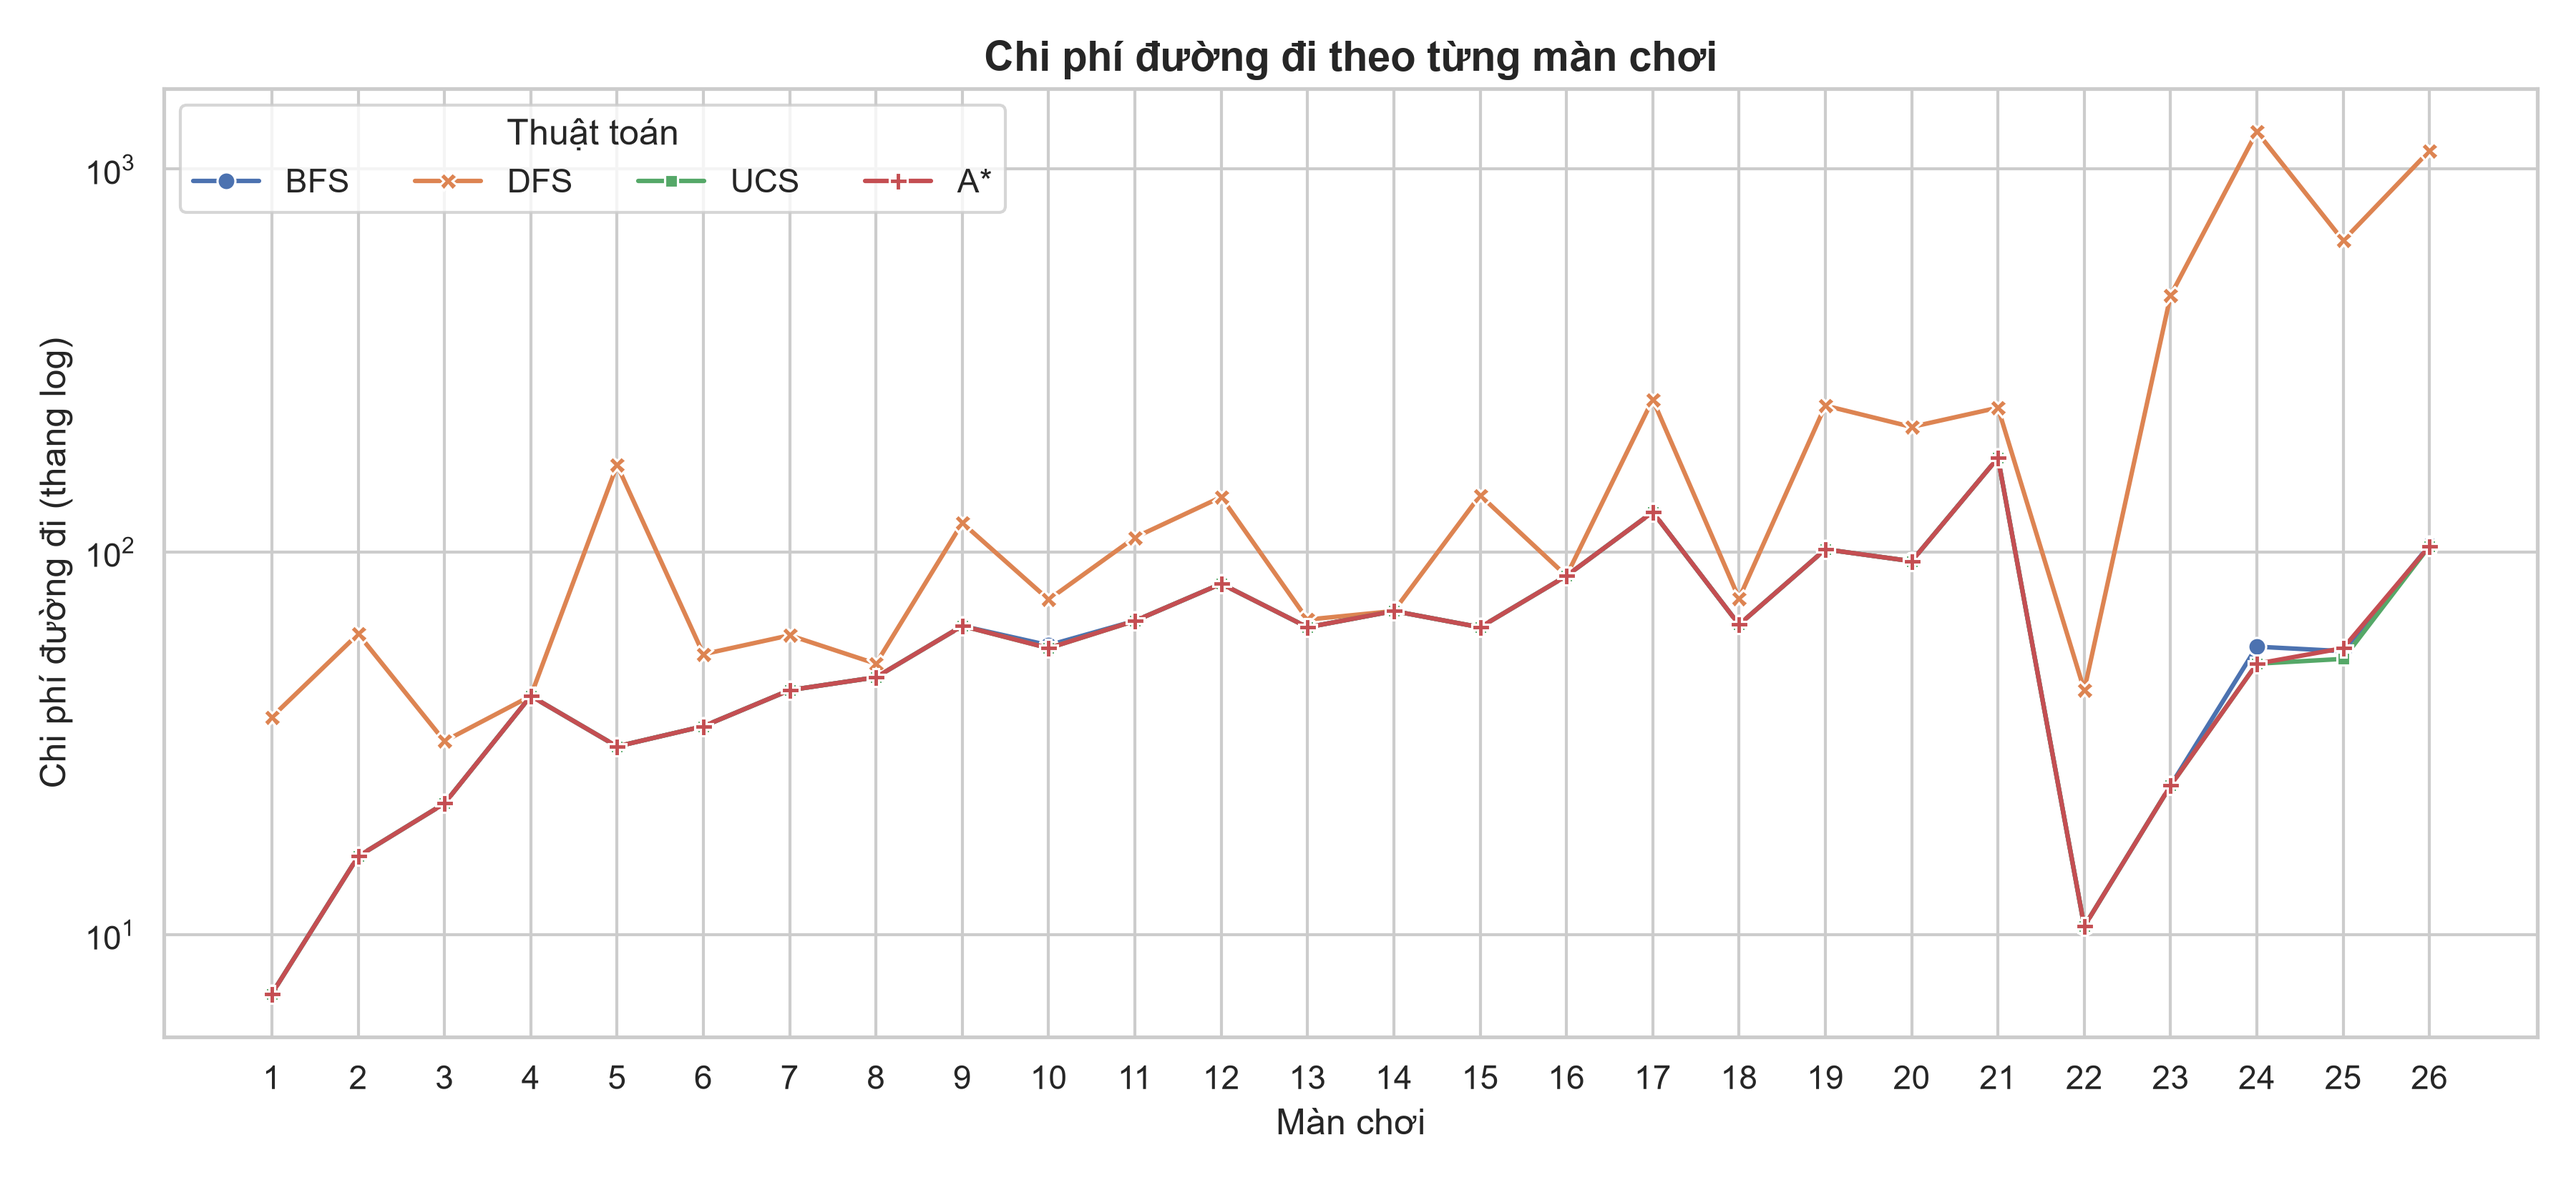
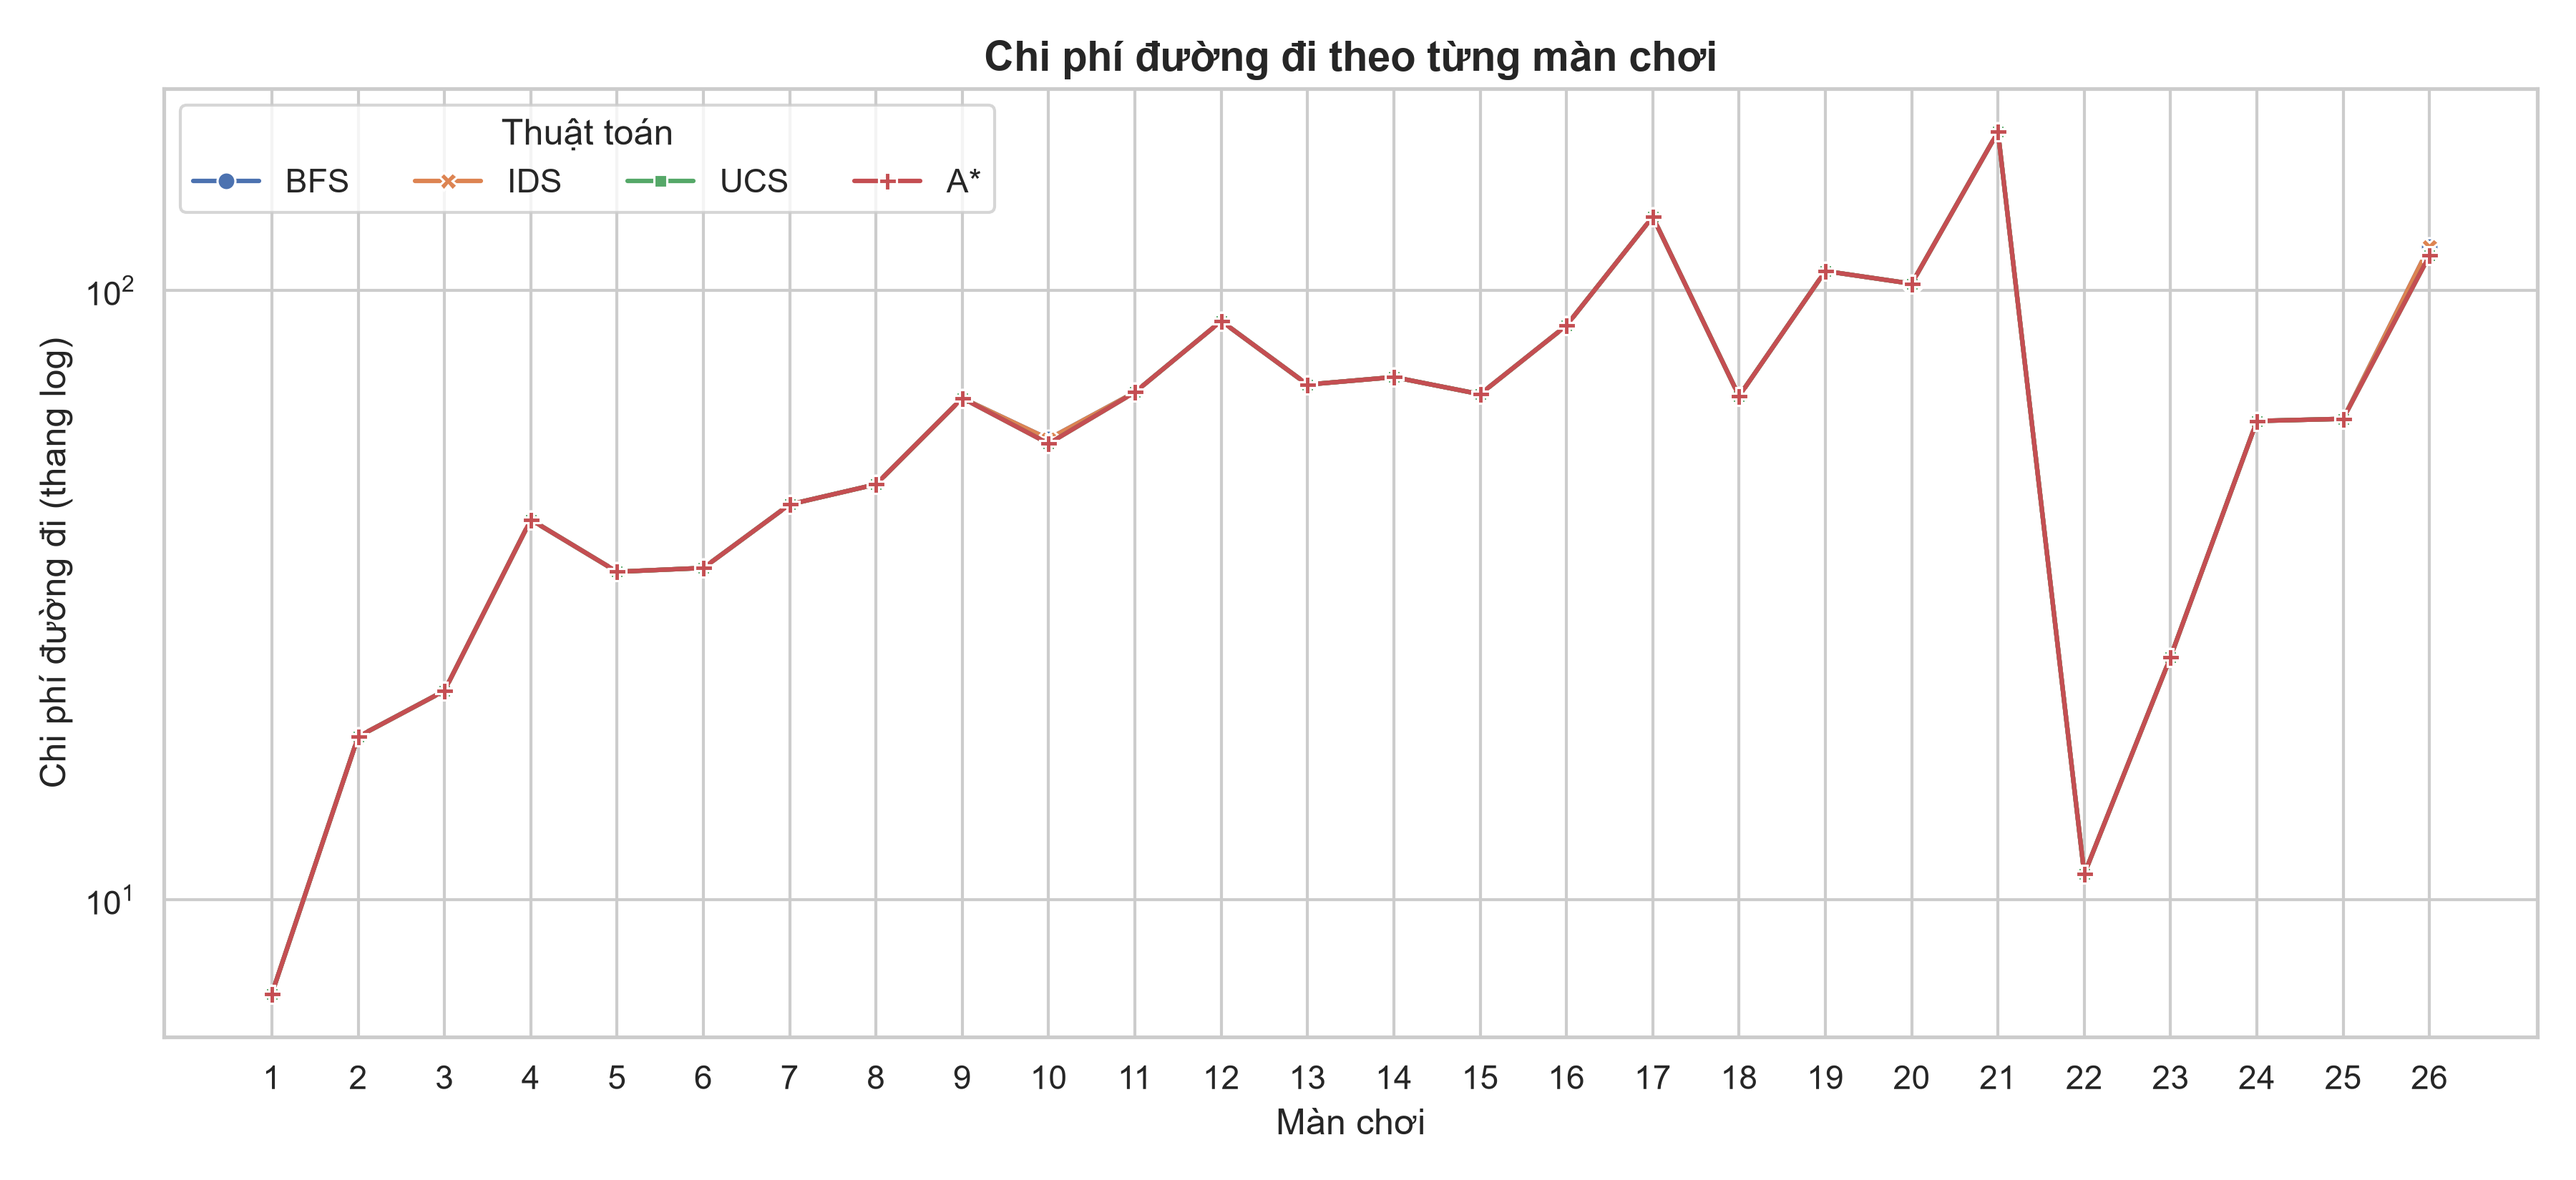
benchmark: IDS, timeout; plot: so sanh tren man co du so lieu

diff --git a/Source/experiments/plot_results.py b/Source/experiments/plot_results.py
@@ -5,9 +5,13 @@ import numpy as np
 import pandas as pd
 import seaborn as sns
  
-CSV_FILE = "results.csv"
-OUTPUT_DIR = "charts"
-ALGORITHM_ORDER = ["BFS", "DFS", "UCS", "A*"]
+BASE = os.path.dirname(os.path.abspath(__file__))
+CSV_FILE = os.path.join(BASE, "results.csv")
+OUTPUT_DIR = os.path.join(BASE, "charts")
+ 
+# Thứ tự hiển thị; thuật toán nào không có trong CSV sẽ tự bị bỏ qua.
+# (DFS giữ lại để đọc được file CSV cũ.)
+ALGORITHM_ORDER = ["BFS", "IDS", "DFS", "UCS", "A*"]
 METRICS = [
     ("Time (s)", "Thời gian tìm kiếm (giây)", "time"),
     ("Memory (KB)", "Bộ nhớ đỉnh (KB)", "memory"),
@@ -19,12 +23,36 @@ METRICS = [
  
 def load_data(path):
     df = pd.read_csv(path)
+    # Các ô "Error" / "Timeout" / rỗng sẽ thành NaN (không có số liệu).
     for column, _, _ in METRICS:
         df[column] = pd.to_numeric(df[column], errors="coerce")
-    df["Level"] = df["Level"].astype(str).str.replace(".json", "", regex=False)
+    df["Level"] = pd.to_numeric(
+        df["Level"].astype(str).str.replace(".json", "", regex=False), errors="coerce"
+    ).astype("Int64")
+    df = df.dropna(subset=["Level"])
+    df["Level"] = df["Level"].astype(int)
     df.loc[df["Steps"] < 0, "Steps"] = np.nan
     df.loc[df["Cost"] < 0, "Cost"] = np.nan
-    return df
+    return df.sort_values(["Level", "Algorithm"]).reset_index(drop=True)
+ 
+ 
+def algorithm_order(df):
+    present = set(df["Algorithm"])
+    return [a for a in ALGORITHM_ORDER if a in present]
+ 
+ 
+def report_missing(df):
+    """In ra các màn không có số liệu (lỗi, timeout, không giải được) của từng thuật toán."""
+    print("[INFO] Số liệu thiếu (NaN) theo thuật toán:")
+    any_missing = False
+    for alg in algorithm_order(df):
+        sub = df[df["Algorithm"] == alg]
+        levels = sorted(sub.loc[sub["Cost"].isna(), "Level"].tolist())
+        if levels:
+            any_missing = True
+            print(f"  - {alg}: thiếu {len(levels)} màn: {levels}")
+    if not any_missing:
+        print("  (không thiếu màn nào)")
  
  
 def geometric_mean(values):
@@ -33,37 +61,42 @@ def geometric_mean(values):
     return np.exp(np.log(values).mean()) if len(values) else np.nan
  
  
-def plot_per_level(df, column, title, name):
-    levels = list(dict.fromkeys(df["Level"]))
+def plot_per_level(df, column, title, name, order):
+    levels = sorted(df["Level"].unique())
+    data = df.copy()
+    data.loc[data[column] <= 0, column] = np.nan   # thang log không vẽ được giá trị <= 0
     fig, ax = plt.subplots(figsize=(max(12, len(levels) * 0.45), 5.5))
-    sns.lineplot(data=df, x="Level", y=column, hue="Algorithm", style="Algorithm",
-                 hue_order=ALGORITHM_ORDER, style_order=ALGORITHM_ORDER,
-                 markers=True, dashes=False, ax=ax, sort=False)
+    sns.lineplot(data=data, x="Level", y=column, hue="Algorithm", style="Algorithm",
+                 hue_order=order, style_order=order,
+                 markers=True, dashes=False, ax=ax)
     ax.set_yscale("log")
+    ax.set_xticks(levels)
     ax.set_title(f"{title} theo từng màn chơi", fontsize=14, fontweight="bold")
     ax.set_xlabel("Màn chơi")
     ax.set_ylabel(f"{title} (thang log)")
-    ax.tick_params(axis="x", rotation=0)
-    ax.legend(title="Thuật toán", ncol=4, loc="upper left")
+    ax.legend(title="Thuật toán", ncol=len(order), loc="upper left")
     fig.tight_layout()
     fig.savefig(os.path.join(OUTPUT_DIR, f"{name}_per_level.png"), dpi=300)
     plt.close(fig)
  
  
-def plot_summary(df):
+def plot_summary(df, order):
+    # Chỉ so sánh trên các màn mà MỌI thuật toán đều có số liệu cho chỉ số đó,
+    # để thuật toán bị timeout/lỗi không làm lệch trung bình.
     fig, axes = plt.subplots(1, len(METRICS), figsize=(4.6 * len(METRICS), 4.5))
     for ax, (column, title, _) in zip(axes, METRICS):
-        summary = (df.groupby("Algorithm")[column].apply(geometric_mean)
-                   .reindex(ALGORITHM_ORDER))
+        wide = df.pivot_table(index="Level", columns="Algorithm", values=column)
+        wide = wide.reindex(columns=order).dropna()
+        summary = wide.apply(geometric_mean)
         sns.barplot(x=summary.index, y=summary.values, hue=summary.index,
                     palette="viridis", legend=False, ax=ax)
         for i, value in enumerate(summary.values):
             if not np.isnan(value):
                 ax.text(i, value, f"{value:.3g}", ha="center", va="bottom", fontsize=9)
-        ax.set_title(title, fontsize=12, fontweight="bold")
+        ax.set_title(f"{title}\n({len(wide)} màn có đủ số liệu)", fontsize=11, fontweight="bold")
         ax.set_xlabel("")
         ax.set_ylabel("Trung bình nhân")
-    fig.suptitle("So sánh tổng quát bốn thuật toán", fontsize=15, fontweight="bold")
+    fig.suptitle(f"So sánh tổng quát {len(order)} thuật toán", fontsize=15, fontweight="bold")
     fig.tight_layout()
     fig.savefig(os.path.join(OUTPUT_DIR, "summary.png"), dpi=300)
     plt.close(fig)
@@ -74,17 +107,19 @@ def check_optimality(df):
     if not {"UCS", "A*"}.issubset(pivot.columns) or pivot[["UCS", "A*"]].isna().all().all():
         print("[WARNING] Không có đủ dữ liệu Cost để kiểm tra tính tối ưu.")
         return
-    pivot.index = pivot.index.astype(int)
     pivot = pivot.sort_index()
     eps = 1e-9
-    bad = pivot[pivot["A*"] > pivot["UCS"] + eps]
-    worse = pivot[pivot["UCS"] > pivot.drop(columns="UCS").min(axis=1) + eps]
-    if bad.empty and worse.empty:
+    both = pivot.dropna(subset=["UCS", "A*"])
+    bad = both[(both["A*"] - both["UCS"]).abs() > eps]
+    others = pivot.drop(columns=["UCS"])
+    cheaper = pivot[pivot["UCS"].notna() & (pivot["UCS"] > others.min(axis=1) + eps)]
+    print(f"[INFO] So sánh Cost A* và UCS trên {len(both)} màn có đủ số liệu.")
+    if bad.empty and cheaper.empty:
         print("[OK] A* và UCS có cùng Cost ở mọi màn; không thuật toán nào rẻ hơn UCS.")
         return
     for level, row in bad.iterrows():
-        print(f"[CẢNH BÁO] Màn {level}: A* Cost = {row['A*']} > UCS Cost = {row['UCS']}")
-    for level, row in worse.iterrows():
+        print(f"[CẢNH BÁO] Màn {level}: A* Cost = {row['A*']} khác UCS Cost = {row['UCS']}")
+    for level, row in cheaper.iterrows():
         print(f"[CẢNH BÁO] Màn {level}: UCS Cost = {row['UCS']} nhưng có thuật toán rẻ hơn")
  
  
@@ -92,15 +127,17 @@ def main():
     sns.set_theme(style="whitegrid")
     os.makedirs(OUTPUT_DIR, exist_ok=True)
     df = load_data(CSV_FILE)
+    order = algorithm_order(df)
+ 
+    report_missing(df)
     check_optimality(df)
  
     for column, title, name in METRICS:
-        plot_per_level(df, column, title, name)
-    plot_summary(df)
+        plot_per_level(df, column, title, name, order)
+    plot_summary(df, order)
  
     print(f"Đã lưu biểu đồ vào thư mục '{OUTPUT_DIR}'")
  
  
 if __name__ == "__main__":
     main()
- 
